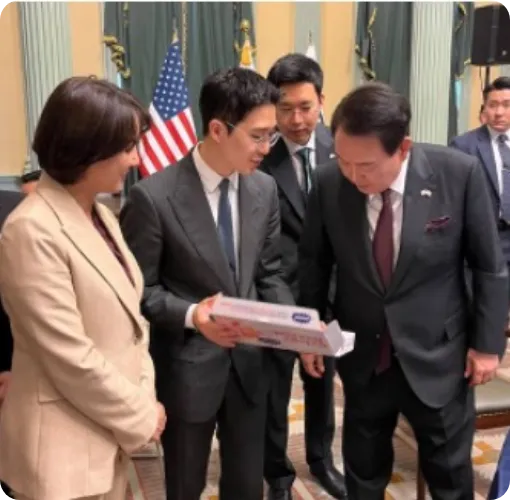
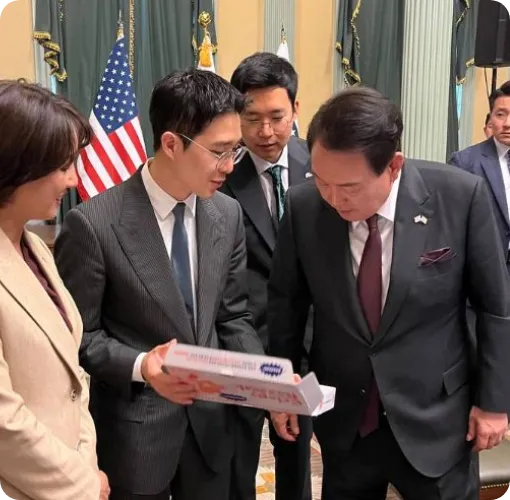
연혁이미지

diff --git a/components/pageComp/brand/ourstory/KeepGoing.tsx b/components/pageComp/brand/ourstory/KeepGoing.tsx
@@ -126,7 +126,9 @@ function KeepGoing() {
                   <SwiperSlide key={i}>
                     <div className={`thumb badge${el.id}`}>
                       <img
-                        src={`https://dev-gopizza-homepage.s3.ap-northeast-2.amazonaws.com/ui/images/brand/ourstory/history/${YEAR[selHistory]}/history${i + 1}x2.webp`}
+                        src={`https://dev-gopizza-homepage.s3.ap-northeast-2.amazonaws.com/ui/images/brand/ourstory/history/${YEAR[selHistory]}/history${
+                          i + 1
+                        }x2.webp?v=2`}
                         alt={`${el.title} 이미지`}
                       />
                       <span className="badge"></span>
